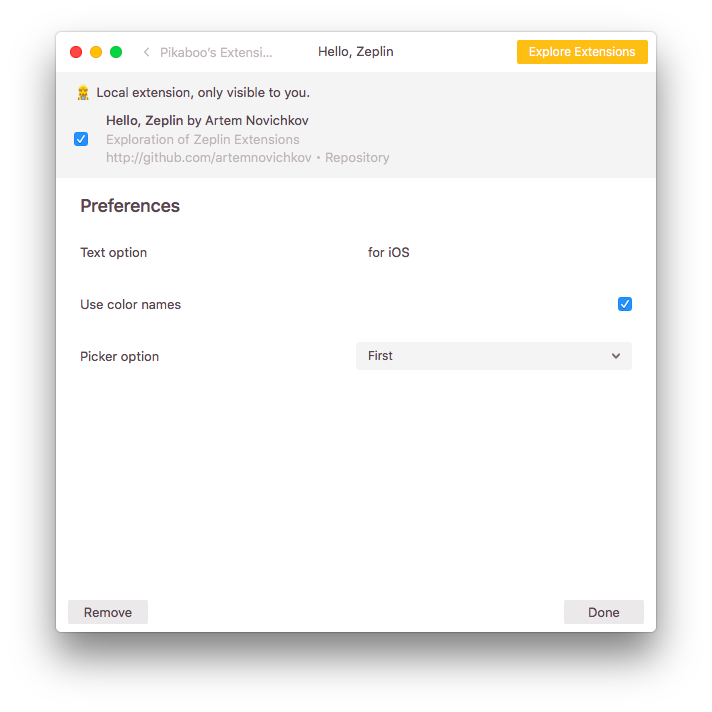
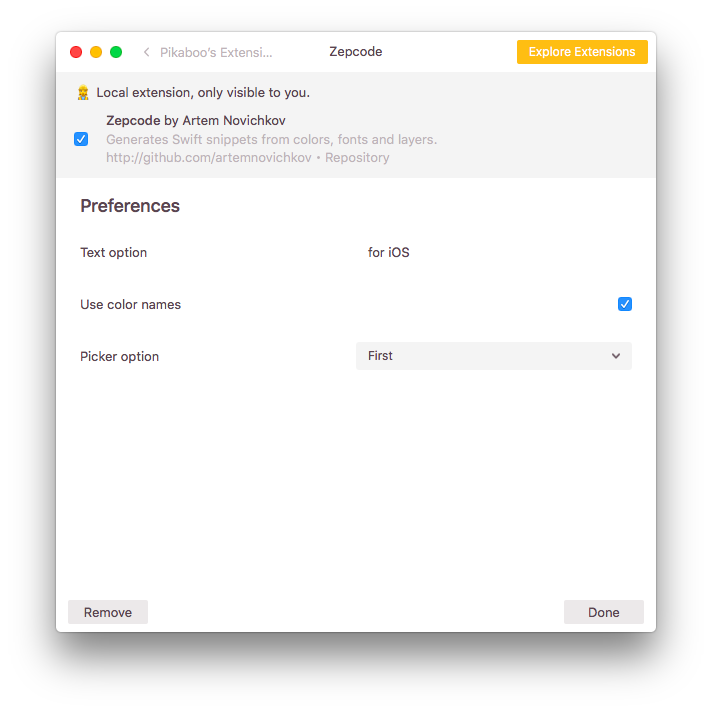
Rename the project to Zepcode

Changed region(s): [[0.1545, 0.1545, 0.618, 0.2163], [0.4326, 0.0618, 0.5562, 0.0927]]

diff --git a/README.md b/README.md
@@ -1,4 +1,4 @@
-# zeplin-extension
+# Zepcode
 Generates Swift snippets from colors, fonts and layers.
 
 <p align="center">
@@ -101,4 +101,4 @@ Artem Novichkov, novichkoff93@gmail.com
 
 ## License
 
-zeplin-extension is available under the MIT license. See the LICENSE file for more info.
+Zepcode is available under the MIT license. See the LICENSE file for more info.
